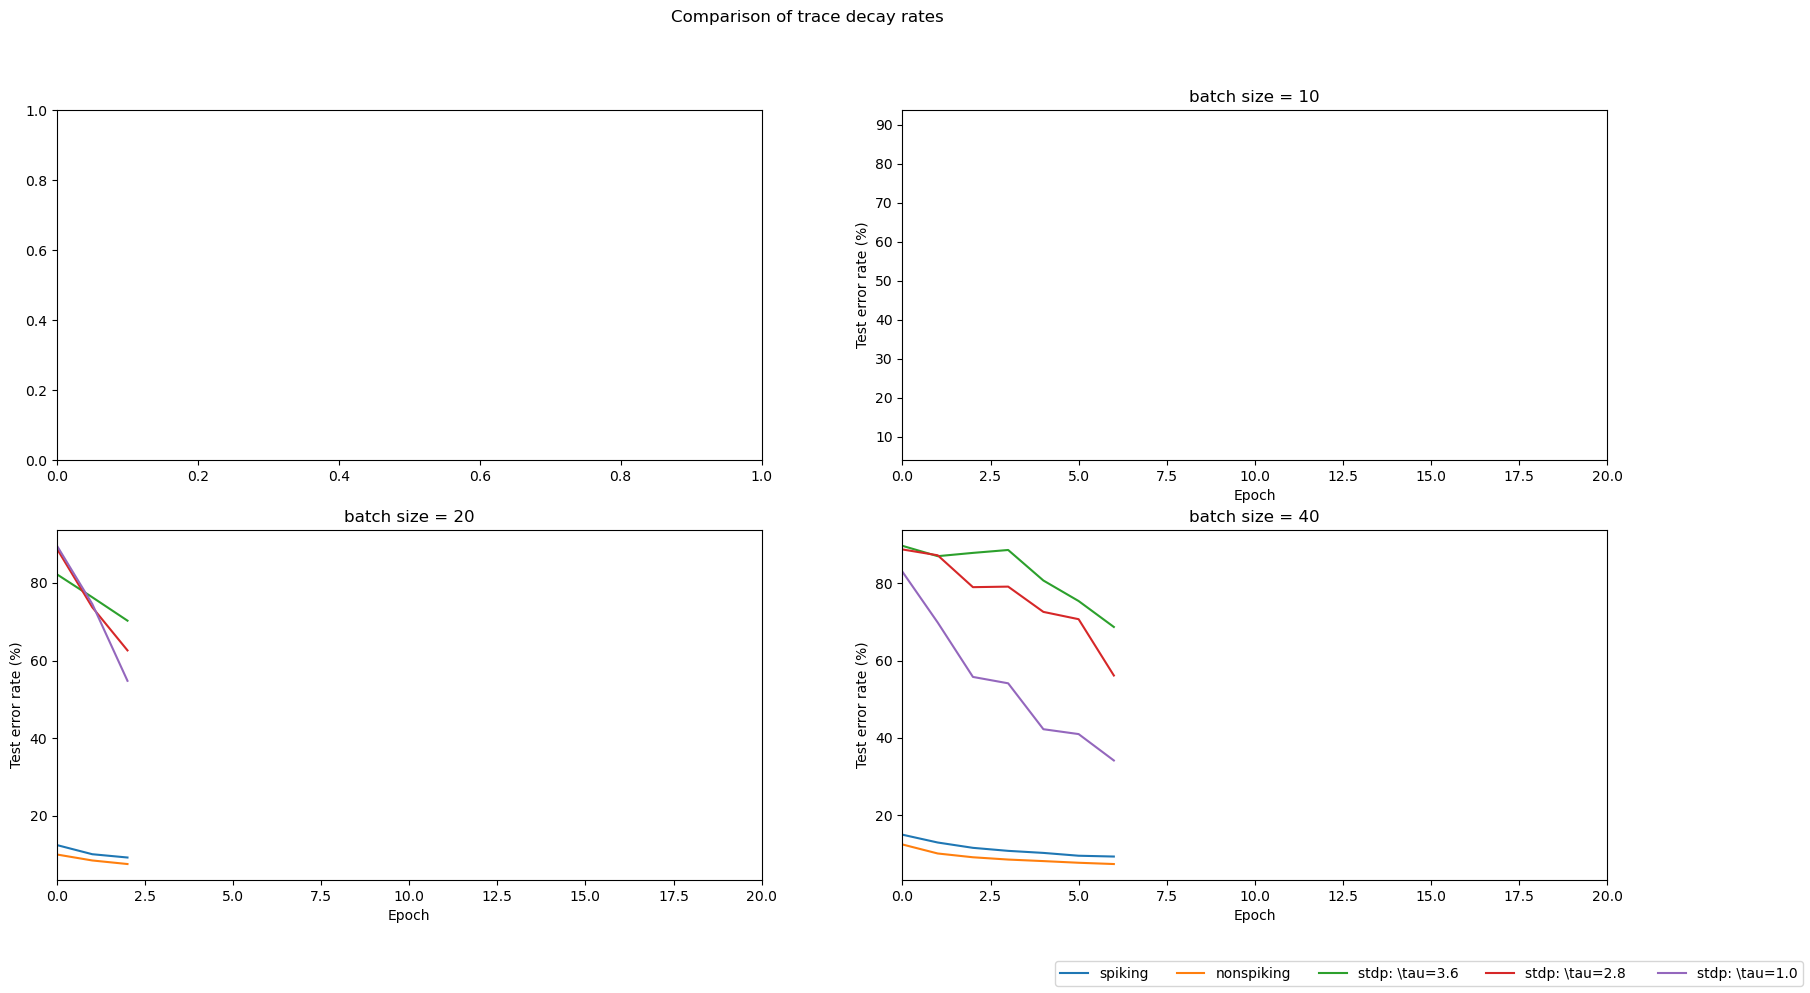
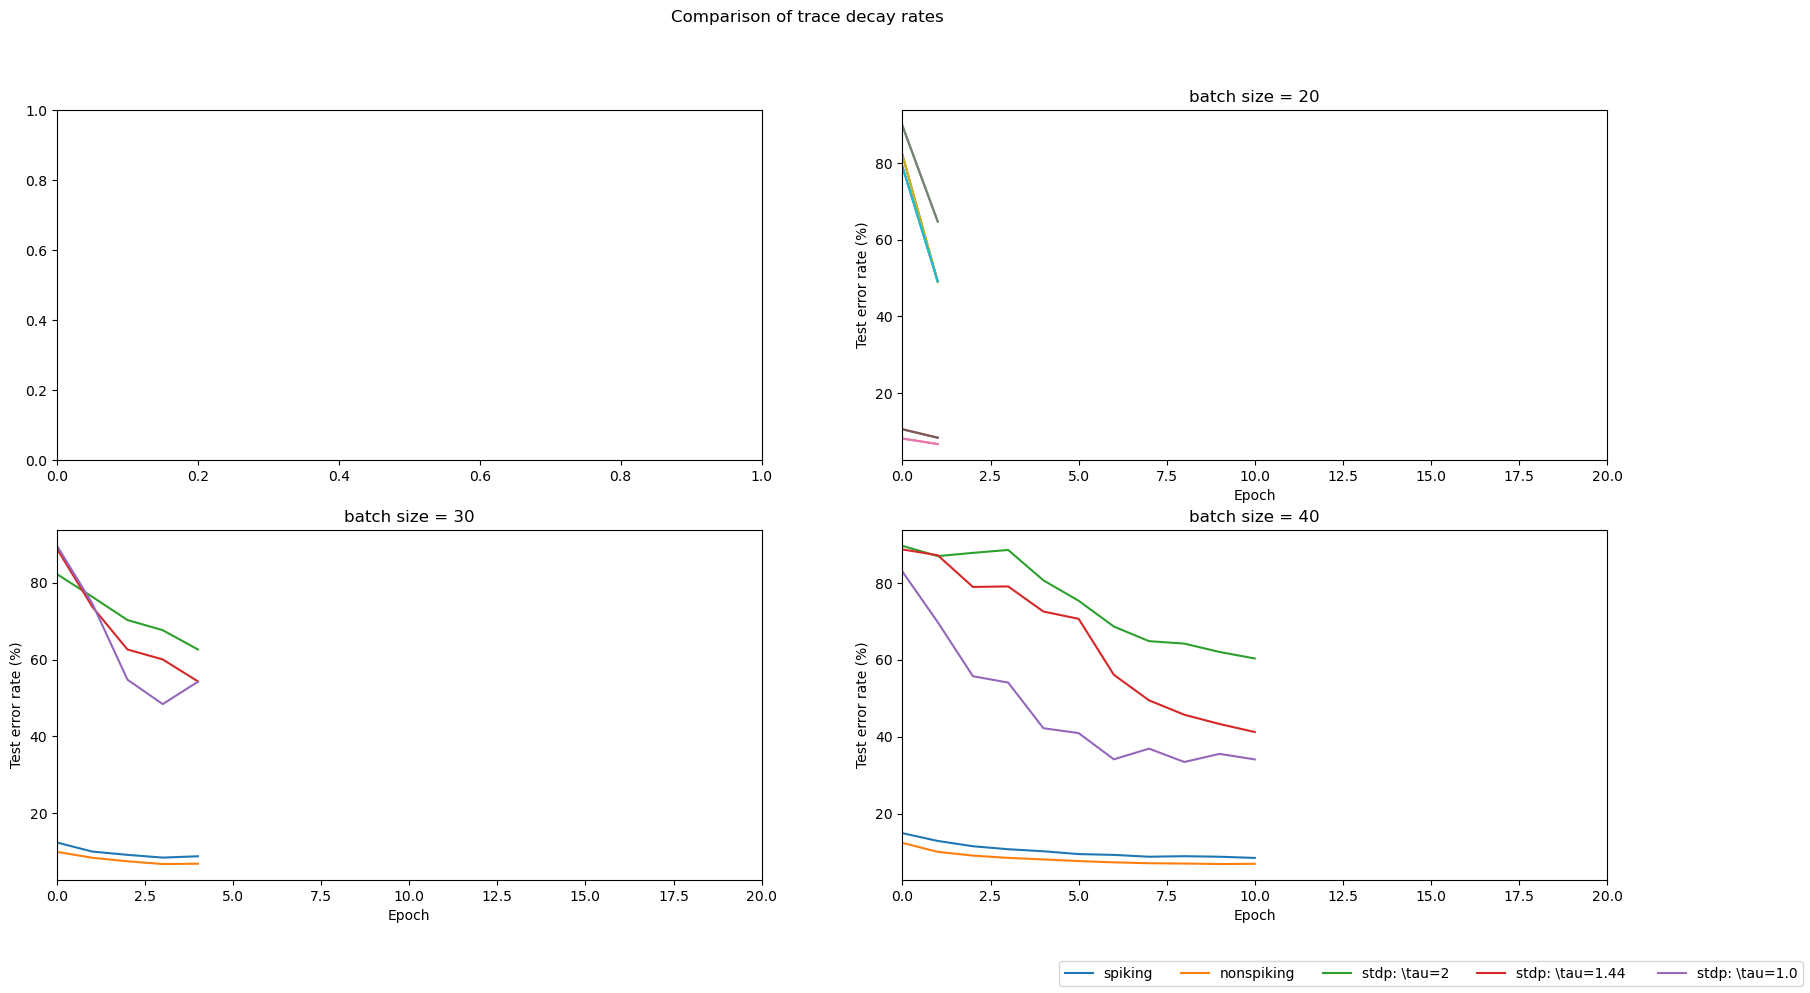
wip

diff --git a/graphUtil.py b/graphUtil.py
@@ -82,7 +82,7 @@ for i in range(6):
 ax.set_xlabel('Epoch')
 ax.set_ylabel('Test error rate (%)')
 ax.set_xlim([0,30])
-ax.set_ylim([0,60])
+ax.set_ylim([0,20])
 # ax.set_title()
 fig.suptitle(r"Spiking Discretization schemes")
 fig.legend(labels, loc='lower right', ncol=len(labels), bbox_transform=fig.transFigure)
@@ -138,7 +138,7 @@ fig.savefig('cepalt_error.png')#,bbox_inches="tight")
 
 
 fig, ax = plt.subplots(2,2,figsize=(20,10))
-labels=['spiking','nonspiking',r'stdp: \tau=3.6',r'stdp: \tau=2.8 ',r'stdp: \tau=1.0']
+labels=['spiking','nonspiking',r'stdp: \tau=2',r'stdp: \tau=1.44 ',r'stdp: \tau=1.0']
 batch_size=[10,20,30,40]
 for i in [1,1,2,3]:
     spiking_dir = 'skewsym_spiking_'+str(i)
@@ -160,7 +160,7 @@ for i in [1,1,2,3]:
     ax[i//2,i%2].set_ylabel('Test error rate (%)')
     ax[i//2,i%2].set_xlim([0,20])
     ax[i//2,i%2].set_title('batch size = '+str(batch_size[i]))
-fig.suptitle(r"Comparison of trace decay rates")
+fig.suptitle(r"Comparison of trace decay rates ($N_1=40,N_2=15,\beta=0.9$)")
 fig.legend(labels, loc='lower right', ncol=len(labels), bbox_transform=fig.transFigure)
 fig.savefig('kernel_width_compare.png',bbox_inches="tight")
 
